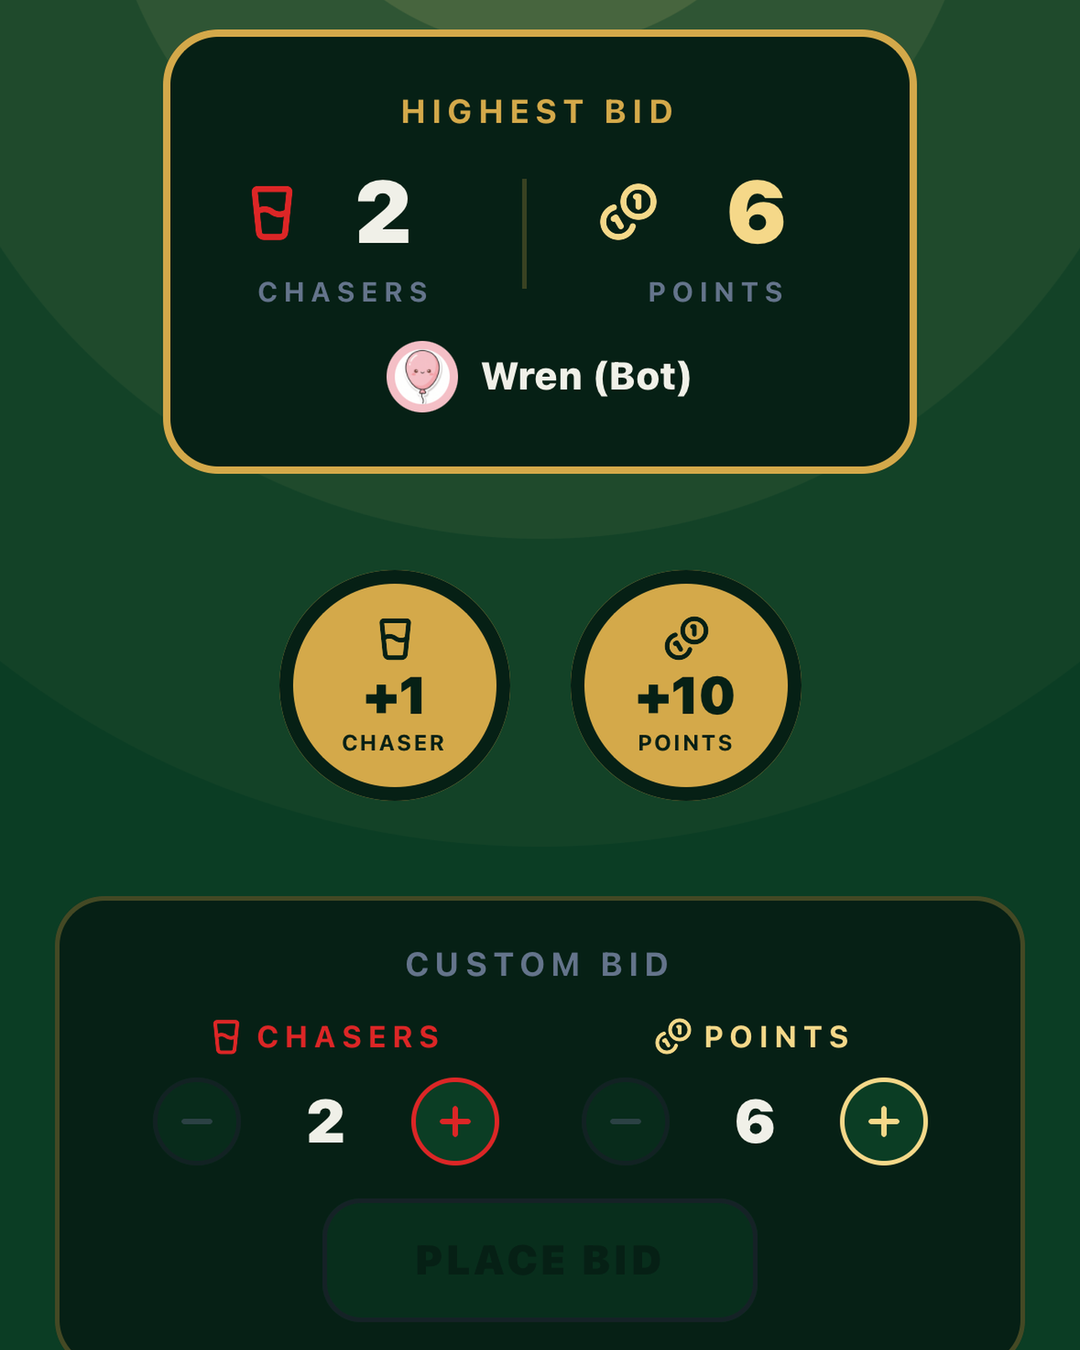
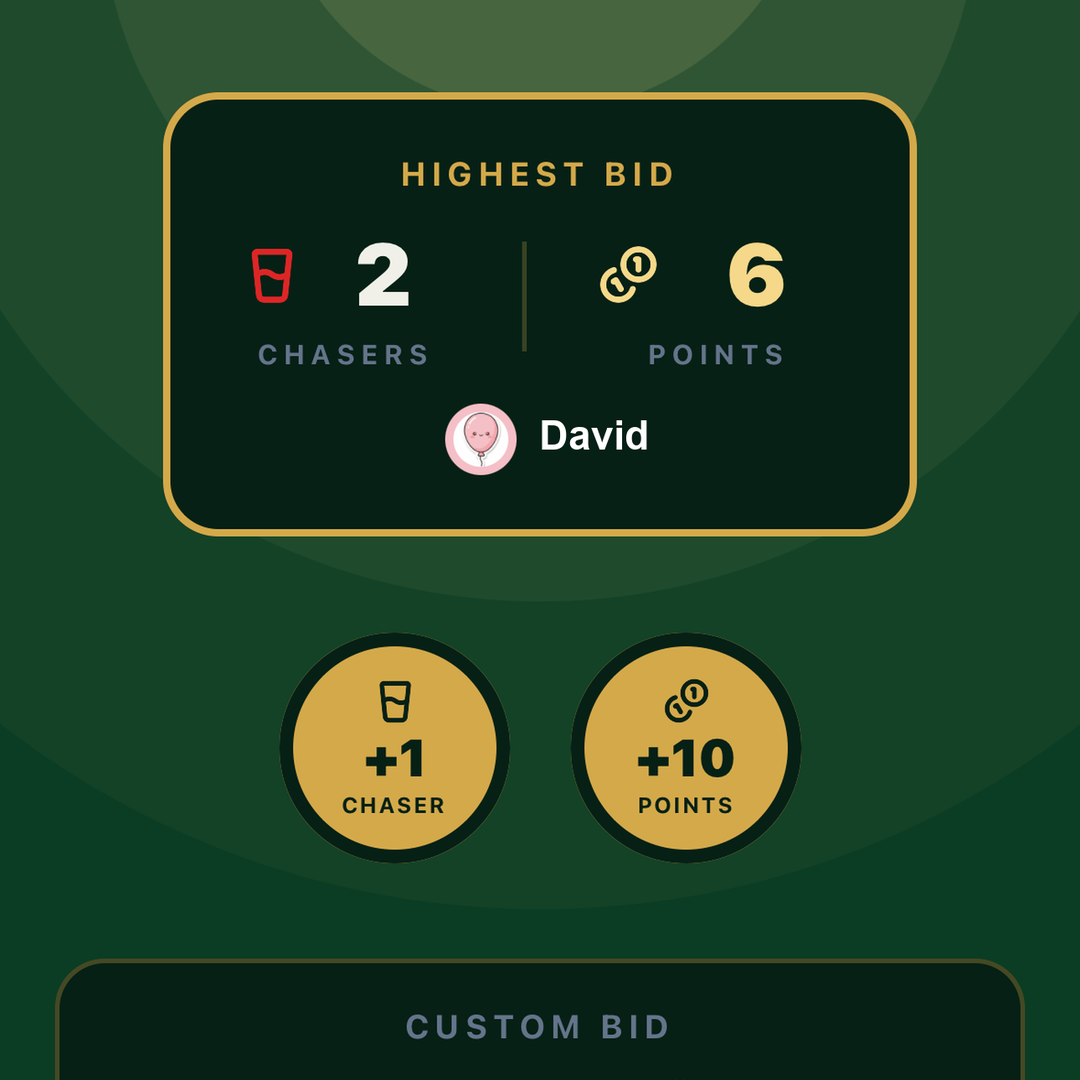
chore: square Meta carousel cards, Wren (Bot) -> David
Meta shows carousel ad cards 1:1, so the 4:5 renders were losing 270
rows to the platform crop. Cards are now 1080x1080 with each capture's
window recomposed for the shorter frame: games keeps two tile rows with
the third peeking, room leads with "Waiting for friends...", auction
keeps the bid card and buttons with the custom-bid panel peeking, and
the back button remnant in auction's square frame is mirror-erased. The
auction bidder "Wren (Bot)" is redrawn as "David", re-centred.

Closes #172

diff --git a/scripts/meta-carousel.py b/scripts/meta-carousel.py
@@ -6,15 +6,17 @@
 
     uv run scripts/meta-carousel.py
 
-Writes 1080x1350 (4:5) PNGs to docs/marketing/carousel/, plus the whole
-screens (status bar off, native 1290x2646) to docs/marketing/screens/ for
-placements that fit a full phone screen. Card 1 is the brand
-card (duck, one line, the URL). Every other card is a full-bleed window onto
-one real screenshot from docs/store/screenshots/iphone/en-US - no phone
-frame, no captions, nothing that reads as an ad. A capture is 1290x2796 and
-4:5 shows 1612 of those rows at full width, so each screen names the row its
-window starts on; the status bar and the back button always fall outside it.
-Nothing on any card hints at alcohol.
+Writes 1080x1080 (1:1) PNGs to docs/marketing/carousel/ - Meta renders
+carousel cards square in most placements, so anything but 1:1 gets cropped -
+plus the whole screens (status bar off, native 1290x2646) to
+docs/marketing/screens/ for placements that fit a full phone screen. Card 1
+is the brand card (duck, one line, the URL). Every other card is a
+full-bleed window onto one real screenshot from
+docs/store/screenshots/iphone/en-US - no phone frame, no captions, nothing
+that reads as an ad. A capture is 1290x2796 and 1:1 shows 1290 of those rows
+at full width, so each screen names the row its window starts on; the status
+bar and the back button always fall outside it or get erased. Nothing on any
+card hints at alcohol.
 """
 
 from __future__ import annotations
@@ -30,12 +32,13 @@ OUT = REPO / "docs/marketing/carousel"
 OUT_FULL = REPO / "docs/marketing/screens"  # the same captures whole (status bar off), native size
 STATUS_BAR_PX = 150  # of a 1290x2796 capture: the clock, signal and battery
 
-W, H = 1080, 1350
+W, H = 1080, 1080
 CREAM = (0xFF, 0xF8, 0xE1)
 INK = (0x0A, 0x0A, 0x0F)
 AMBER = (0xF5, 0x9E, 0x0B)
 
 FREDOKA = REPO / "docs/marketing/fonts/Fredoka-Variable.ttf"  # the brand's display face (OFL)
+ARIAL_BOLD = "/System/Library/Fonts/Supplemental/Arial Bold.ttf"  # matches the app's in-UI sans
 
 
 def fredoka(size: int, weight: int = 700) -> ImageFont.FreeTypeFont:
@@ -44,29 +47,26 @@ def fredoka(size: int, weight: int = 700) -> ImageFont.FreeTypeFont:
     return f
 
 RAW_W = 1290
-WINDOW_H = round(H * RAW_W / W)  # 1612 capture rows fill a 4:5 card
+WINDOW_H = round(H * RAW_W / W)  # 1290 capture rows fill a 1:1 card
 
 # (capture, first row of the window). The order is the story the swipe
 # tells: what's in it -> how a room works -> the games themselves.
 SCREENS = [
-    ("02-games.png", 560),  # "Games" + filters + two full rows of tiles
-    ("01-room.png", 830),  # tonight's games, the host, the code, share invite
-    ("04-auction.png", 375),  # highest bid, the +1/+10 buttons, custom bid
-    ("05-twenty-one.png", 860),  # the counter ring and the +1/+2/+3 buttons
-    ("06-roulette.png", 895),  # points, the six cards, skip
-    ("03-sacrifice.png", 395),  # the ring, "1 chaser to go", the I'M IN button
-    ("07-flying-bomb.png", 250),  # the timer ring, the pill and the bomb
+    ("02-games.png", 920),  # two full rows of tiles, the third row peeking below
+    ("01-room.png", 520),  # "Waiting for friends...", tonight's games, the host
+    ("04-auction.png", 300),  # highest bid (David), the +1/+10 buttons, custom bid peeking
+    ("05-twenty-one.png", 830),  # the counter ring, "YOUR TURN"
+    ("06-roulette.png", 935),  # points and the six cards
+    ("03-sacrifice.png", 888),  # "1 CHASER TO GO", the I'M IN button
+    ("07-flying-bomb.png", 580),  # the holding pill and the bomb
 ]
 
 
-# Captures whose window still contains the back button (x 52-191, y 233-371).
-# The screen backgrounds are symmetric about the centre, so the mirror image
-# of the same spot on the right is the correct background to put over it.
-ERASE_BACK_BUTTON = {"07-flying-bomb.png"}
-
-
-def erase_back_button(im: Image.Image) -> Image.Image:
-    x0, y0, x1, y1, feather = 20, 201, 223, 403, 10  # the button plus a margin of plain background
+# The back button sits at x 52-191, y 233-371. The screen backgrounds are
+# symmetric about the centre, so the mirror image of the same spot on the
+# right is the correct background to put over it.
+def erase_back_button(im: Image.Image, y0: int = 201, y1: int = 403) -> Image.Image:
+    x0, x1, feather = 20, 223, 10  # the button plus a margin of plain background
     mirror = im.crop((RAW_W - x1, y0, RAW_W - x0, y1)).transpose(Image.Transpose.FLIP_LEFT_RIGHT)
     mask = Image.new("L", mirror.size, 0)
     ImageDraw.Draw(mask).rectangle((feather, feather, mirror.width - feather, mirror.height - feather), fill=255)
@@ -74,10 +74,30 @@ def erase_back_button(im: Image.Image) -> Image.Image:
     return im
 
 
+def rename_wren(im: Image.Image) -> Image.Image:
+    """The auction capture's highest bidder is a dev-room bot, "Wren (Bot)".
+    Clear the avatar+name row, then redraw it as "David", re-centred - the
+    shorter name would otherwise sit off-axis in the card."""
+    avatar = im.crop((444, 768, 568, 872))
+    d = ImageDraw.Draw(im)
+    for y in range(762, 880):  # row-by-row: the card background is a soft gradient
+        d.line((336, y, 954, y), fill=im.getpixel((300, y)))
+    font = ImageFont.truetype(ARIAL_BOLD, 48)
+    group_w = 124 + 6 + d.textlength("David", font=font)
+    x0 = round(645 - group_w / 2)
+    im.paste(avatar, (x0, 768))
+    d.text((x0 + 130, 820), "David", font=font, fill=(255, 255, 255), anchor="lm")
+    return im
+
+
 def screen_card(name: str, top: int) -> Image.Image:
     src = Image.open(SHOTS / name).convert("RGB")
-    if name in ERASE_BACK_BUTTON:
-        src = erase_back_button(src)
+    if name == "04-auction.png":
+        # The band starts above the window's top row (300) so the mask's
+        # feathered top edge fades outside the frame; the rows where the
+        # mirror would garble the progress bar (~278-295) are also cropped away.
+        erase_back_button(src, y0=250)
+        rename_wren(src)
     window = src.crop((0, top, RAW_W, top + WINDOW_H))
     return window.resize((W, H), Image.LANCZOS)
 
@@ -87,25 +107,25 @@ def brand_card() -> Image.Image:
     im = Image.new("RGB", (W, H), CREAM)
     d = ImageDraw.Draw(im)
 
-    duck = Image.open(ASSETS / "duck-wave.png").convert("RGB").resize((620, 620), Image.LANCZOS)
-    im.paste(duck, ((W - 620) // 2, 130))  # flat render on the same cream - no keying needed
+    duck = Image.open(ASSETS / "duck-wave.png").convert("RGB").resize((470, 470), Image.LANCZOS)
+    im.paste(duck, ((W - 470) // 2, 80))  # flat render on the same cream - no keying needed
 
-    d.text((W / 2, 820), "Fast & Fun", font=fredoka(96), fill=INK, anchor="mm")
-    d.text((W / 2, 924), "Mini-games", font=fredoka(96), fill=INK, anchor="mm")
+    d.text((W / 2, 646), "Fast & Fun", font=fredoka(88), fill=INK, anchor="mm")
+    d.text((W / 2, 742), "Mini-games", font=fredoka(88), fill=INK, anchor="mm")
 
-    bw, bh = 760, 136
-    bx0, by0 = (W - bw) // 2, 1020
+    bw, bh = 720, 128
+    bx0, by0 = (W - bw) // 2, 850
     bx1, by1 = bx0 + bw, by0 + bh
     d.rounded_rectangle((bx0 + 14, by0 + 14, bx1 + 14, by1 + 14), 24, fill=INK)
     d.rounded_rectangle((bx0, by0, bx1, by1), 24, fill=AMBER, outline=INK, width=6)
-    d.text(((bx0 + bx1) / 2, (by0 + by1) / 2), "quicklegame.com", font=fredoka(64), fill=INK, anchor="mm")
+    d.text(((bx0 + bx1) / 2, (by0 + by1) / 2), "quicklegame.com", font=fredoka(60), fill=INK, anchor="mm")
     return im
 
 
 def full_screen(name: str) -> Image.Image:
     src = Image.open(SHOTS / name).convert("RGB")
-    if name in ERASE_BACK_BUTTON:
-        src = erase_back_button(src)
+    if name == "07-flying-bomb.png":  # the only full screen whose button sits on plain background
+        erase_back_button(src)
     return src.crop((0, STATUS_BAR_PX, RAW_W, src.height))
 
 
